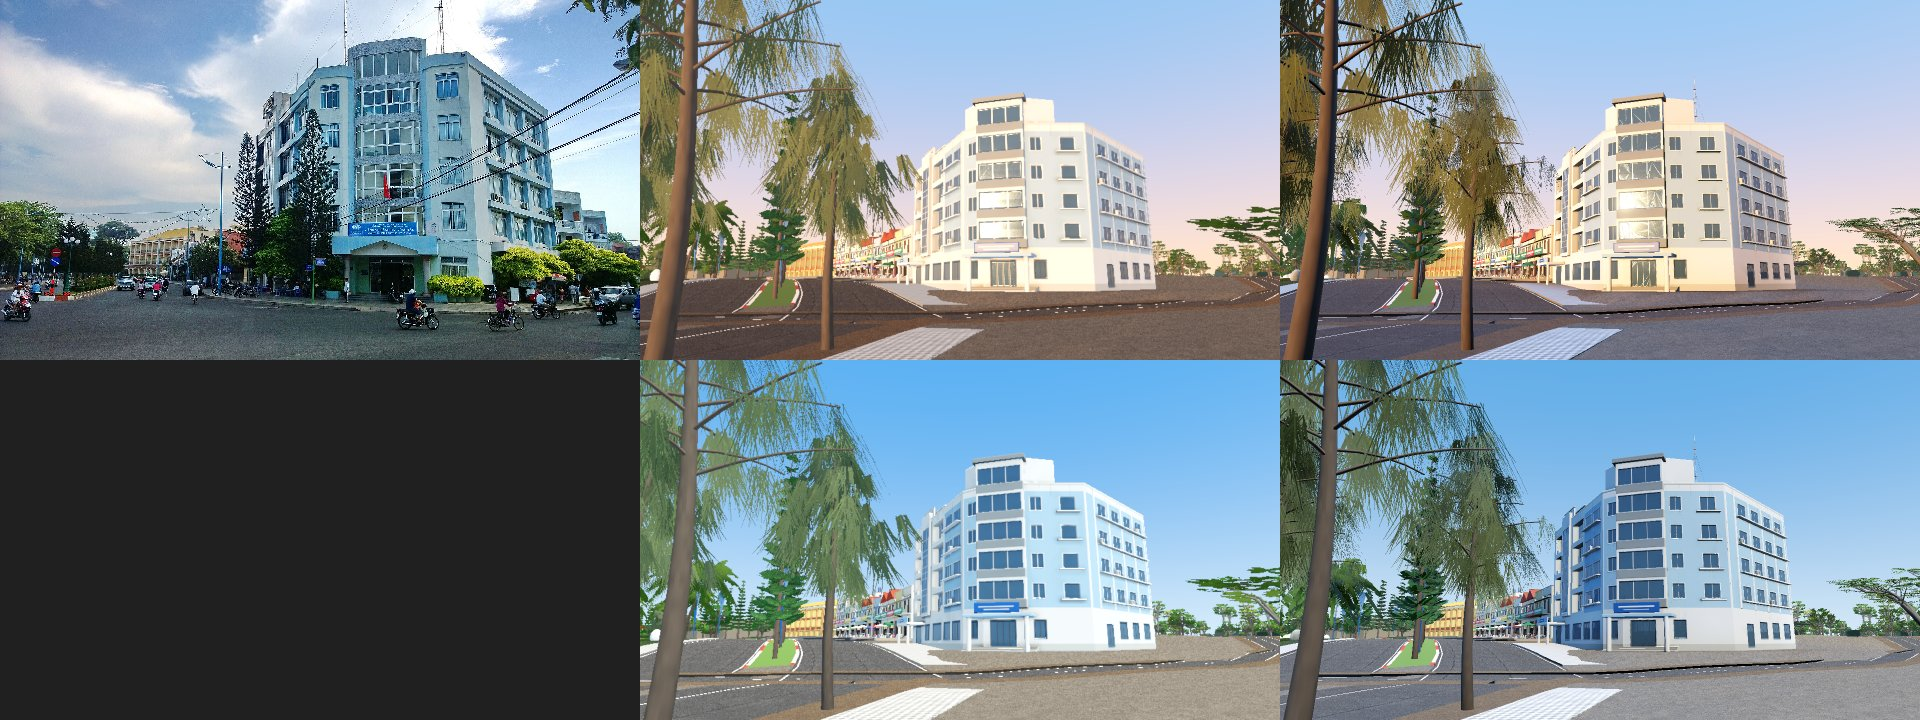
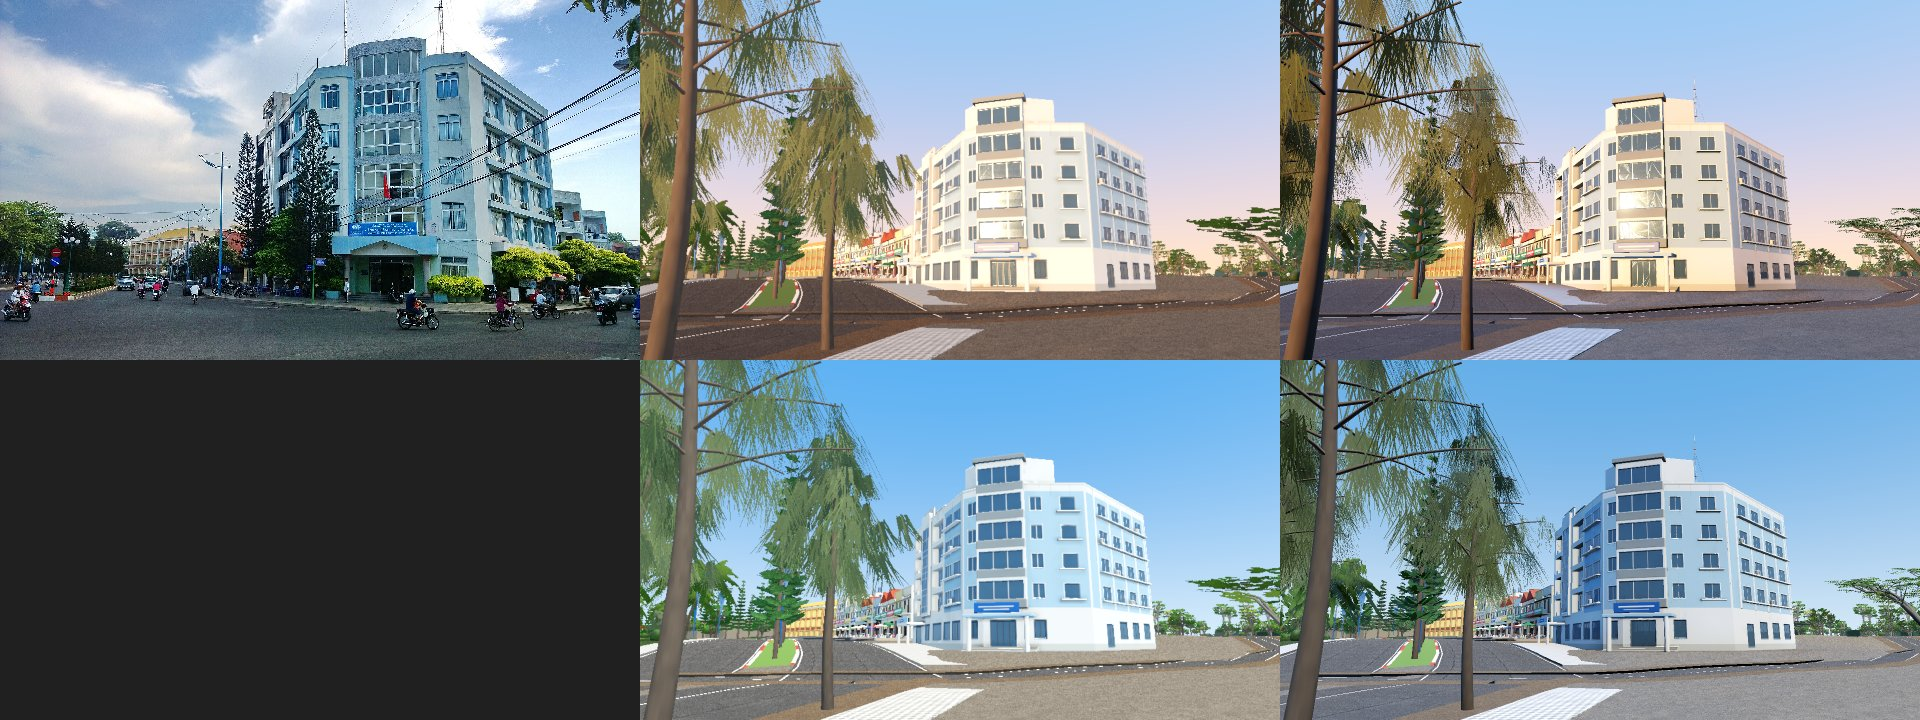
Give the impostors of the round bush and of the flowers the colors of their materials, and find a white impostor in the check (report 0026, D-0026-17)
A part of a model of World that keeps its material had no color in the
impostor picture, so the bushes and the flower beds of S2 were white on
Low. Now each such part takes the base color or the texture of its
material. The check of impostors.py fails when more than half of the
pixels that are not paint are white. The sheets of the five shots are
made again.

diff --git a/tools/world/impostors.py b/tools/world/impostors.py
@@ -69,7 +69,7 @@ def role_colors(materials: dict) -> dict:
             return None
         hex_ = values.get("color", "#FFFFFF").lstrip("#")
         rgb = tuple(int(hex_[i : i + 2], 16) / 255.0 for i in (0, 2, 4))
-        return rgb, bool(values.get("paint", False))
+        return rgb, bool(values.get("paint", False)), bool(values.get("keep", False))
 
     return color
 
@@ -154,6 +154,46 @@ def emission(name: str, rgb=None, mode: str = "color"):
     return m
 
 
+def source_emission(name: str, source):
+    """An emission material with the base color of the material of the GLB (its
+    texture, or its color): for a role whose material of the game keeps the
+    material of the GLB ("keep": the parts part_*, plan 0026, D4). With the flat
+    color of the table, the impostors of the round bush and of the flowers were
+    white (report 0026, the sheet of S2 on Low)."""
+    m = emission(name, (1.0, 1.0, 1.0))
+    if source is None or source.node_tree is None:
+        return m
+    bsdf = next((n for n in source.node_tree.nodes if n.type == "BSDF_PRINCIPLED"), None)
+    if bsdf is None:
+        return m
+    nt = m.node_tree
+    em = next(n for n in nt.nodes if n.type == "EMISSION")
+    base = bsdf.inputs["Base Color"]
+    if not base.is_linked:
+        # A color socket holds linear values; the view transform is Raw, so the
+        # picture needs the sRGB values.
+        em.inputs["Color"].default_value = (*(_to_srgb(c) for c in base.default_value[:3]), 1.0)
+        return m
+    node = base.links[0].from_node
+    if node.type != "TEX_IMAGE" or node.image is None:
+        return m
+    tex = nt.nodes.new("ShaderNodeTexImage")
+    tex.image = node.image
+    # The sRGB values of the texture go to the picture as they are (Raw view).
+    tex.image.colorspace_settings.name = "Non-Color"
+    vector = node.inputs["Vector"]
+    if vector.is_linked and vector.links[0].from_node.type == "UVMAP":
+        uv = nt.nodes.new("ShaderNodeUVMap")
+        uv.uv_map = vector.links[0].from_node.uv_map
+        nt.links.new(uv.outputs[0], tex.inputs["Vector"])
+    nt.links.new(tex.outputs["Color"], em.inputs["Color"])
+    return m
+
+
+def _to_srgb(c: float) -> float:
+    return 12.92 * c if c <= 0.0031308 else 1.055 * c ** (1.0 / 2.4) - 0.055
+
+
 def import_model(glb: Path):
     """The model as one mesh object, with the transforms of its nodes applied."""
     bpy = _bpy()
@@ -217,8 +257,11 @@ def make_impostor(model_id: str, color_of, out_dir: Path) -> dict:
             colors.append(None)
             masks.append(None)
             continue
-        rgb, paint = found
-        colors.append(emission(f"c_{role}", (1.0, 1.0, 1.0) if paint else rgb))
+        rgb, paint, keep = found
+        if keep and not paint:
+            colors.append(source_emission(f"c_{role}", slot.material))
+        else:
+            colors.append(emission(f"c_{role}", (1.0, 1.0, 1.0) if paint else rgb))
         masks.append(emission(f"m_{role}", (1.0, 1.0, 1.0) if paint else (0.0, 0.0, 0.0)))
     normal = emission("normal", mode="normal")
     hidden = [i for i, c in enumerate(colors) if c is None]
@@ -316,6 +359,34 @@ def write_import(path: Path) -> None:
     import_path.write_text("\n".join(lines) + "\n", encoding="utf-8")
 
 
+def white_problem(model_id: str) -> str:
+    """A problem when the impostor is white where it has no paint: its colors
+    were lost (report 0026: the impostors of the round bush and of the flowers
+    were white on Low, so the bush and the bed were white in the shot S2)."""
+    from PIL import Image  # noqa: PLC0415
+
+    color_path = wf.ASSETS / f"{model_id}_impostor.png"
+    normal_path = wf.ASSETS / f"{model_id}_impostor_normal.png"
+    if not color_path.exists() or not normal_path.exists():
+        return ""
+    color = Image.open(color_path).convert("RGBA")
+    paint = Image.open(normal_path).convert("RGBA").split()[3]
+    seen = white = 0
+    rgba = color.tobytes()
+    for i, p in enumerate(paint.tobytes()):
+        r, g, b, a = rgba[4 * i : 4 * i + 4]
+        if a > 128 and p < 128:
+            seen += 1
+            white += 1 if min(r, g, b) > 245 else 0
+    if seen and white > WHITE_PART * seen:
+        return f"{model_id}: the impostor is white where it has no paint ({100 * white // seen} %)"
+    return ""
+
+
+## The part of the impostor with no paint that can be white (a white part of a model).
+WHITE_PART = 0.5
+
+
 def main(argv=None) -> int:
     parser = argparse.ArgumentParser(description=__doc__, formatter_class=argparse.RawDescriptionHelpFormatter)
     parser.add_argument("--force", action="store_true")
@@ -366,6 +437,10 @@ def main(argv=None) -> int:
         changed = True
         print(f"{mid}: the impostor ({values['size']} m)")
     if args.check:
+        for model in models:
+            problem = white_problem(model["id"])
+            if problem:
+                problems.append(problem)
         for problem in problems:
             print(f"ERROR: {problem}")
         if problems:

diff --git a/docs/plans/0026-showcase-bai-truoc.md b/docs/plans/0026-showcase-bai-truoc.md
@@ -245,4 +245,4 @@ Most photos are from 2014 and 2015. A difference from 2019 that I know is a "Che
 - **Report 0026, D-0026-20 (the swimmers and the boats, Q20).** Fourteen swimmers in T-shirts and shorts (the person blueprint of World: `swimmer_1` to `swimmer_4`, and `walker_5`), each where the water at its feet is its depth at the sea level of the tide, some with the swim ring `phao_boi` at the water line (`swimmers` in `data/showcase/people.json`); seven fishing boats of World lie on the sand at the water's edge in front of S1, with the bow to the land (`beached`). In the photo of S1, the low wall is at the left and the camera looks down on its top, so the eye of S1 is now over the wall: from the walk 2.7 m inland, the wall hid the beach. PT-75 fails with fewer than 6 swimmers at 17:00, and checks the depth at the feet of each swimmer, each ring at the water line, the boats, and that no swimmer stands in a boat. With the files of the models, the sheet of S1 showed no swimmer: the eye looks along the beach, and the row of boats (from 54 m) hid the swimmers behind it. In the photo the people in the water are nearer than the row of boats (the boats are at 430 px to 470 px of 1045 under the top). Now the row of five boats is from z -128 to z -80 on the line of the ground of 0.9 m (the bow at right angles to the water's edge, about 105 degrees), and eleven swimmers are in front of it (their line from z -182 to z -126). PT-75 also counts the swimmers in the frame of S1 that no boat on the sand covers (`swimmers` in `data/showcase/shots.json`: at least 6; 7 at 17:00, and 1 to 3 with the places before). Seven boats and fourteen swimmers made S2 more than 300 000 triangles on Low (PT-73): the far level of a ghe is 3 000 triangles and that of a person 1 500. The steps down to the sand (`bac_xuong_cat`, Q19) stand in the openings of the low wall, scaled to the drop to the sand.
 - **Report 0026, D-0026-21 (the slope of Hạ Long, Q13).** Only one photo of 2017 to 2021 shows the slope: the photo from a drone of 2021 (`drone_2021_ha_long.jpg`). I fitted its camera to seven known points; no fit agrees with all of them (errors of 10 px to 30 px), and the footprints are only 5 px to 50 px apart in the photo, with the houses on the slope on the same line of sight as the houses by the road. So I matched none of the 26 footprints with confidence, and they stay off (Q13: a footprint that no photo shows stays off). See Q22.
 - **Report 0026, Q19 (the Norfolk pine).** I put the mid and the far level of the drawing `cay_thong_noel` next to the photos (`build/look/cay_thong_noel_mid.png`, `_far.png`) and the pines of the median in the shot S3 (the tree `araucaria` of plan 0020). The photos of 2019 and 2020 show level tiers of branches with gaps of sky between them; the tiers of the drawing are solid plates at the mid level, and the tree of plan 0020 has branches with needles and gaps. At the far level both are narrow dark cones. So the game keeps the tree of plan 0020 only, and the drawing has no order (`data/world/drawings/cay_thong_noel.json` says why).
-- **The budget (PT-73).** With the hedges, the grove, and the poles, S2 had 370 000 triangles on Low and S5 312 000. Now: the grove has 22 palms 6.5 m apart, the far level of a person starts at 12 m on Low and casts no shadow, the swimmers and the far level of the boats cast no shadow, and the plants of the park have the mid level to 10 m and the far level to 80 m on Low. S2 has 297 000 and S5 299 000 triangles. With the files of the new models (CI of `c1fd259`), S2 had 303 568 triangles: the far levels of Khách sạn Bưu điện and Cao ốc Sen Biển (2 400), and the clumps of the flower beds (no impostor: 60 triangles each to 80 m). Now the clump of flowers has an impostor (as the round bush), and on Low the moored ghe of the bay show the far level (3 000 triangles) to 250 m, not 400 m (the boats of the bay were 31 920 triangles of S2), the plants of the park and the people show the mid level to 6 m, and five boats and eleven swimmers are in front of S1. The walkers in the frame of S2 change it by up to 7 000 triangles with the moment of the measure (15 900 to 21 500), so S2 keeps that room. S1 195 000, S2 295 000, S3 268 000, S4 158 000, and S5 287 000 triangles (288 000 and 294 000 with 4 worker threads).
+- **The budget (PT-73).** With the hedges, the grove, and the poles, S2 had 370 000 triangles on Low and S5 312 000. Now: the grove has 22 palms 6.5 m apart, the far level of a person starts at 12 m on Low and casts no shadow, the swimmers and the far level of the boats cast no shadow, and the plants of the park have the mid level to 10 m and the far level to 80 m on Low. S2 has 297 000 and S5 299 000 triangles. With the files of the new models (CI of `c1fd259`), S2 had 303 568 triangles: the far levels of Khách sạn Bưu điện and Cao ốc Sen Biển (2 400), and the clumps of the flower beds (no impostor: 60 triangles each to 80 m). Now the clump of flowers has an impostor (as the round bush), and on Low the moored ghe of the bay show the far level (3 000 triangles) to 250 m, not 400 m (the boats of the bay were 31 920 triangles of S2), the plants of the park and the people show the mid level to 6 m, and five boats and eleven swimmers are in front of S1. The walkers in the frame of S2 change it by up to 7 000 triangles with the moment of the measure (15 900 to 21 500), so S2 keeps that room. S1 195 000, S2 295 000, S3 268 000, S4 158 000, and S5 287 000 triangles (288 000 and 294 000 with 4 worker threads). The impostors of the round bush and of the clump of flowers were white (`impostors.py` gave no color to a part that keeps its material of World). Now each such part takes the base color or the texture of its material, and `--check` finds a white impostor.

diff --git a/AGENTS.md b/AGENTS.md
@@ -252,7 +252,7 @@ The audio driver prints ALSA errors in the workspace. These errors are not defec
 - **The import** (R5): `fetch.py` writes the import files of `assets/world/*.glb`: no LODs, no shadow meshes, no name suffixes (the joints are nodes, and `front_wheel` must stay a node), and the animations. A GLB with `EXT_mesh_gpu_instancing` (a wall of bricks) imports with the plugin `addons/gpu_instancing/`.
 - **The materials** (D3, R6, `data/world/materials.json`, `scripts/world/world_materials.gd`): a material of the game for each role of World. The paint takes the color of the model. The skin, the hair, and the clothes of people keep the textures and the colors of the GLB. The set `house` merges the 12 roles of a house into 6 materials (plan 0009, R7a). A role with no material stops the load with an error that names the role and the model.
 - **`WorldModel`** (`scripts/world/world_model.gd`, R6): `WorldModel.make(id, paint)` has the levels as children with the visibility ranges of the preset (`WorldModel.RANGES`: on Low the near level to 15 m, the mid level to 40 m, the far level to 150 m; `Quality.apply()` calls `set_ranges()`). `joint(name)`, `set_pose(pose)` (in the limits, on each level), `parts()`, `receipt()`, `play(animation, start)` (a routine in a loop, from a part of its length), and `spin_rpm` (the joints with the role `spin`). `request(id)` starts the load of the files in other threads; `scene()` takes that load only when it is done, and else loads its own copy (`CACHE_MODE_IGNORE_DEEP`): the main thread does not wait for a load of another thread.
-- **Rows** (R8, `scripts/world/world_row.gd`): `WorldRow` puts many models in MultiMeshes, in cells of 6 m: the near and the mid level, then the impostor (`shaders/world_impostor.gdshader`). `tools/world/impostors.py` makes `ID_impostor.png` (the color, white where the paint shows) and `ID_impostor_normal.png` (the normal, and the paint mask in the alpha) from 8 directions, and `assets/world/impostors.json`. CI checks them (`--check`).
+- **Rows** (R8, `scripts/world/world_row.gd`): `WorldRow` puts many models in MultiMeshes, in cells of 6 m: the near and the mid level, then the impostor (`shaders/world_impostor.gdshader`). `tools/world/impostors.py` makes `ID_impostor.png` (the color, white where the paint shows; a part that keeps its material of World takes its base color or its texture) and `ID_impostor_normal.png` (the normal, and the paint mask in the alpha) from 8 directions, and `assets/world/impostors.json`. CI checks them (`--check`). The check fails when more than half of the pixels that are not paint are white (a part with no color in the picture).
 - **The first models** (R9): the parked scooters (`scripts/world/parked.gd`: on the center stand, Q7, at 10° to 30° from the curb on a street and parallel to the wall in a narrow hẻm, Q9, the front wheel turned, the colors of `data/world/palette.json`, "scooters") in the test street and in the rows of `data/world/parked_rows.json` (`scenes/world/parked_rows.gd`); the ceiling fan of each shop room of the test street (`tube_house.gd`); and the aerobics group of the morning exercise at Bãi Trước (`data/world/exercise.json`, `scenes/world/morning_exercise.gd`, 05:00 to 06:30). The AC units of the house kit stay (Q6), and the tai chi group with fans waits for World (Q8). The other shapes of `scripts/greybox.gd` stay until World has their models (R10).
 - **Play tests**: PT-56 `world_models` (the review sheets, published at `/world/` on GitHub Pages), PT-57 `parked_rows`, and PT-58 `morning_exercise`.
 
